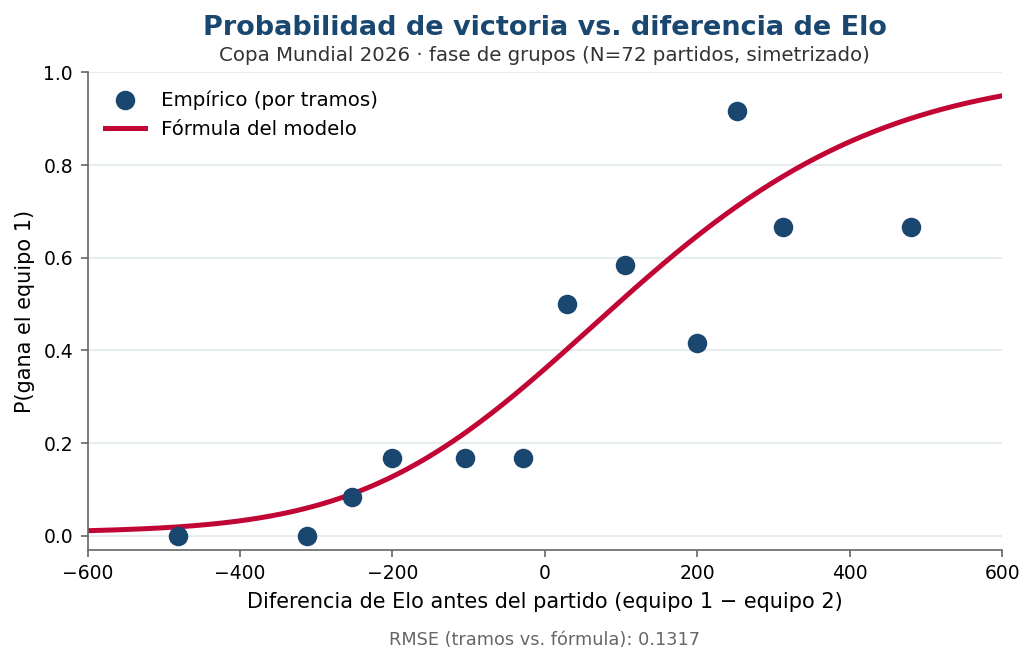
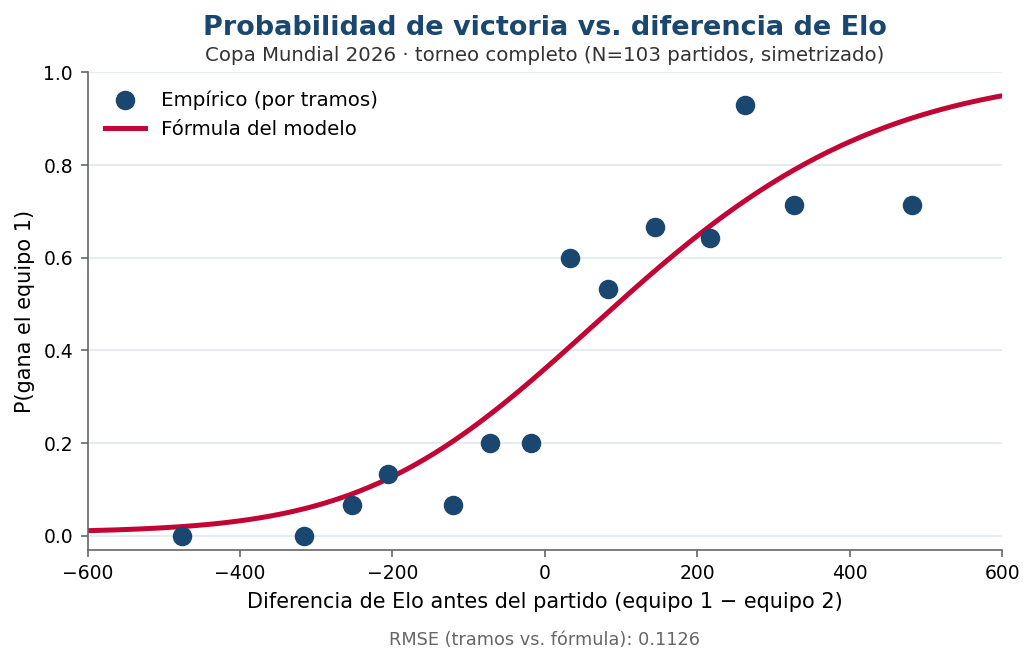
Blog: extend win-prob graph to full tournament (103 matches, group+KO)

diff --git a/_posts/2026/07/2026-07-20-mundial2026.md b/_posts/2026/07/2026-07-20-mundial2026.md
@@ -25,11 +25,11 @@ En ambos cuadros las pestañas del encabezado recorren la predicción tal como e
 
 Cada partido se resuelve con un modelo de probabilidades de victoria, empate y derrota en función de la diferencia de Elo (con ventaja de localía cuando corresponde). La fase de grupos se simula miles de veces para estimar la probabilidad de cada equipo de terminar en cada posición y de clasificar; los equipos que avanzan se emparejan en la fase eliminatoria y el proceso se repite hasta la final. El resultado es una distribución de probabilidades de que cada selección llegue a cada ronda y sea campeona.
 
-La pieza central es la probabilidad de que un equipo gane un partido, modelada como una curva logística de la diferencia de puntajes Elo. La siguiente gráfica compara esa fórmula (la línea) con la frecuencia real de victorias en la fase de grupos del Mundial 2026, agrupando los partidos por diferencia de Elo (los puntos):
+La pieza central es la probabilidad de que un equipo gane un partido, modelada como una curva logística de la diferencia de puntajes Elo. La siguiente gráfica compara esa fórmula (la línea) con la frecuencia real de victorias en los 103 partidos del Mundial 2026 —fase de grupos y eliminatorias—, agrupando los partidos por diferencia de Elo antes de cada partido (los puntos):
 
 <img src="/images/blog/2026/07/win_prob_elo_2026.png" alt="Probabilidad de victoria vs. diferencia de Elo — Mundial 2026" width="700"/>
 
-Los puntos siguen de cerca la curva: cuanto mayor es la ventaja de Elo antes del partido, mayor es la probabilidad de ganar. Con un solo torneo (72 partidos) hay bastante ruido, pero la relación general se sostiene.
+Los puntos siguen de cerca la curva: cuanto mayor es la ventaja de Elo antes del partido, mayor es la probabilidad de ganar. Con un solo torneo (103 partidos) hay algo de ruido, pero la relación general se sostiene.
 
 ## Qué tan bien le fue
 